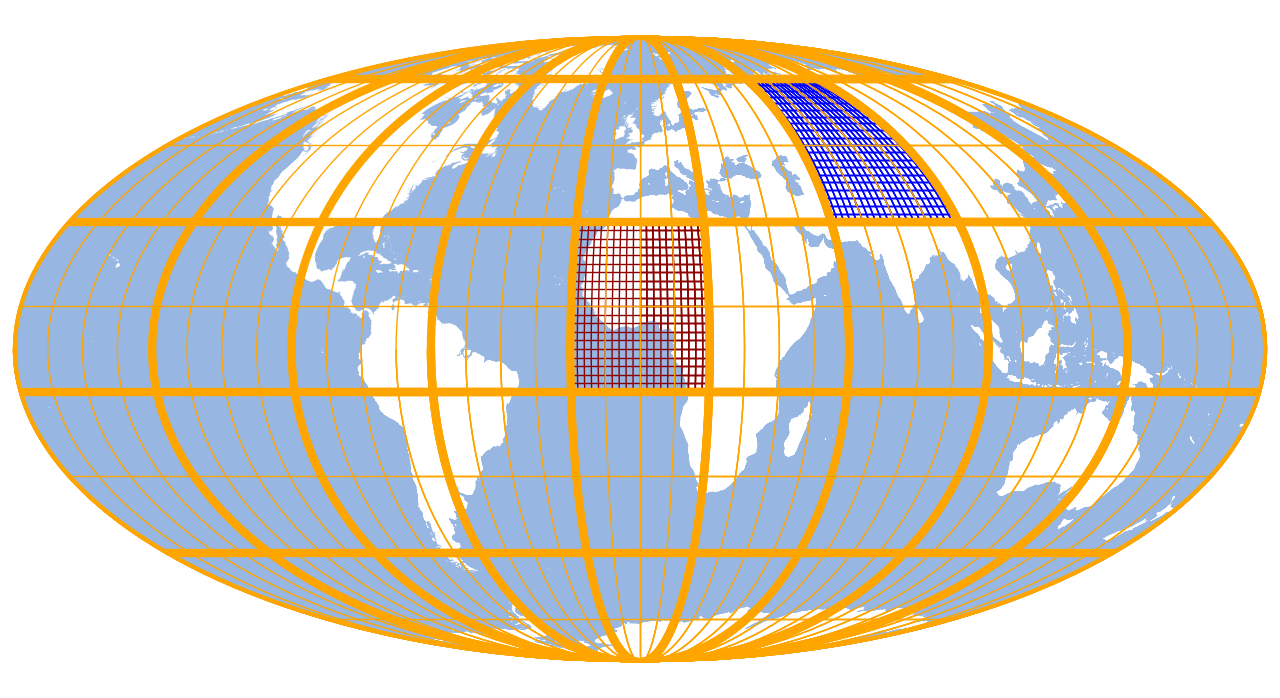
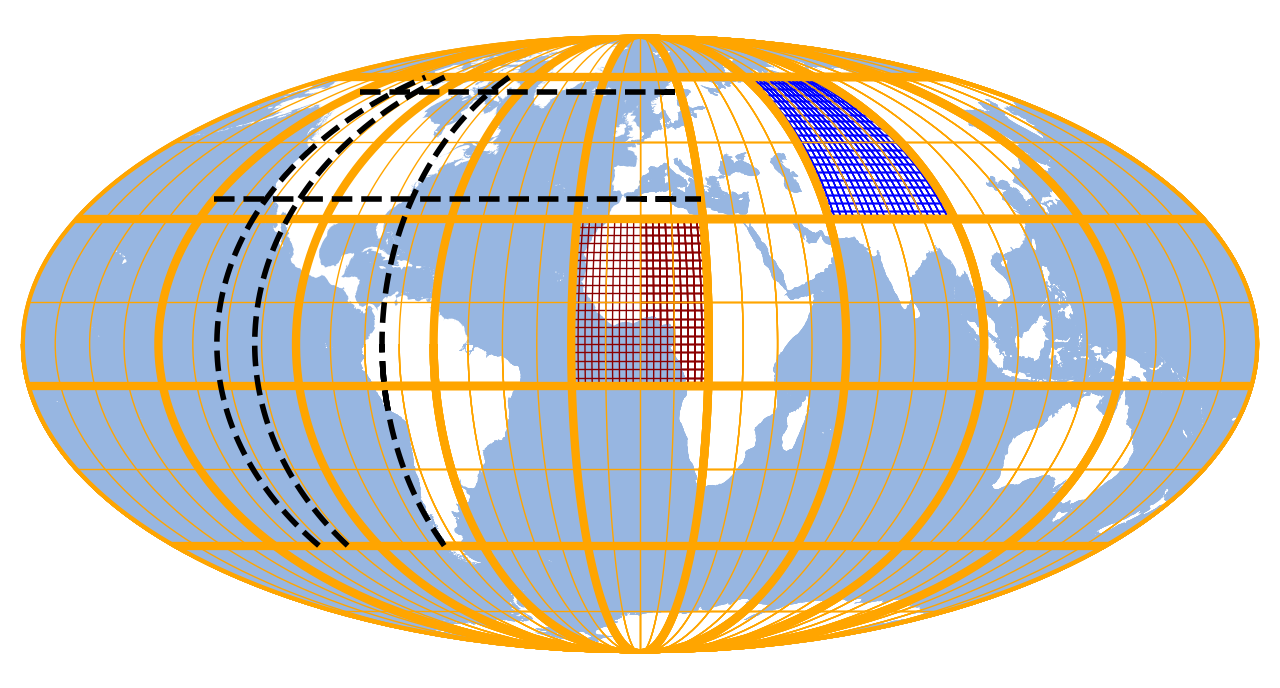
update docs

Changed region(s): [[0.0, 0.061, 1.0, 0.9462]]

diff --git a/docs/api.rst b/docs/api.rst
@@ -2569,8 +2569,15 @@ The returned ``compass`` object has the following useful methods assigned:
 
 Gridlines can be added to the map via ``m.add_gridlines()``.
 
-If no explicit grid-spacing is provided (e.g. ``d=...``), the grid spacing is dynamically updated based on the visible extent.
-(use ``auto_n=...`` to adjust the density of the auto-gridlines.)
+If ``d`` is provided, the gridlines will be **fixed**
+
+- If you provide a number, it is used as grid-spcing (in degrees)
+- If you provide a ``list`` or ``numpy.array``, it is used to draw lines only at the specific coordinates
+- To use different settings for latitude and longitude lines, provide a ``2-tuple`` of the aforementioned types.
+
+If no explicit grid-spacing is provided (e.g. ``d=None``), the grid is dynamically updated based on the visible extent.
+
+- Use ``auto_n=...`` to adjust the density of the auto-gridlines.
 
 
 .. currentmodule:: eomaps
@@ -2589,8 +2596,8 @@ If no explicit grid-spacing is provided (e.g. ``d=...``), the grid spacing is dy
     :align: center
 
     +-------------------------------------------------------------------+-----------------------------------------+
-    | .. code-block:: python                                            | .. image:: _static/minigifs/grid_01.png |
-    |                                                                   |   :align: center                        |
+    | .. code_block:: python                                            | .. image:: _static/minigifs/grid_01.png |
+    |                                                                   |     :align: center                      |
     |   from eomaps import Maps                                         |                                         |
     |   m = Maps(Maps.CRS.Mollweide(), frameon=False)                   |                                         |
     |   m.add_feature.preset.ocean()                                    |                                         |
@@ -2603,12 +2610,17 @@ If no explicit grid-spacing is provided (e.g. ``d=...``), the grid spacing is dy
     |   # add fine-grained gridlines in a specific area                 |                                         |
     |   g2 = mg.add_gridlines(d=2, ec="darkred", lw=0.5, zorder=0,      |                                         |
     |                         bounds=(-20, 20, -10, 30))                |                                         |
-    |   g2 = mg.add_gridlines(d=2, ec="b", lw=0.5, zorder=0,            |                                         |
+    |   g3 = mg.add_gridlines(d=2, ec="b", lw=0.5, zorder=0,            |                                         |
     |                         bounds=(60, 100, 30, 70))                 |                                         |
     |                                                                   |                                         |
-    |   m.show_layer(m.layer, "g")                                      |                                         |
+    |   # add dedicated gridlines at specific coordinates               |                                         |
+    |   g4 = mg.add_gridlines(([-123, -112, -75], [35, 65]),            |                                         |
+    |                         ec="k", lw=2, ls="--", zorder=20,         |                                         |
+    |                         bounds=(-140, 20, -50, 70)                |                                         |
+    |                         )                                         |                                         |
+    |                                                                   |                                         |
+    |   m.show_layer(m.layer, "grid")                                   |                                         |
     +-------------------------------------------------------------------+-----------------------------------------+
-
 
 In addition, the returned ``GridLines`` instance supports the following
 useful methods:
